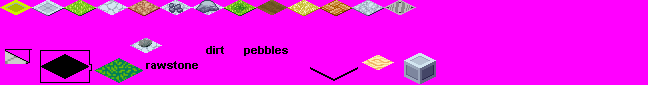
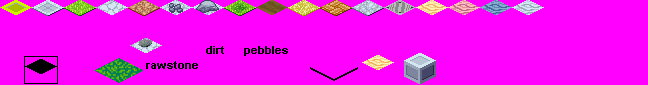
Added configurable wall and floor types, responding to their material index
git-svn-id: http://stonesense.googlecode.com/svn/trunk@82 4d48de78-bd66-11de-9616-7b1d4728551e

diff --git a/GroundMaterialConfiguration.cpp b/GroundMaterialConfiguration.cpp
@@ -1,0 +1,86 @@
+#include "common.h"
+#include "GroundMaterialConfiguration.h"
+
+#include "dfhack/library/tinyxml/tinyxml.h"
+
+bool GroundMaterialNamesTranslatedFromGame = false;
+
+vector<GroundMaterialConfiguration> groundTypes;
+vector<GroundMaterialConfiguration> xmlDefinedGroundTypes;
+
+GroundMaterialConfiguration::GroundMaterialConfiguration(char* gameIDstr, int wallSheetIndex,int floorSheetIndex)
+{
+  this->wallSheetIndex = wallSheetIndex;
+  this->floorSheetIndex = floorSheetIndex;
+
+  int len = (int) strlen(gameIDstr);
+  if(len > 100) len = 100;
+  memcpy(this->gameIDstr, gameIDstr, len);
+  this->gameIDstr[len] = 0;
+}
+
+void DumpGroundMaterialNamesToDisk(){
+  FILE* fp = fopen("dump.txt", "w");
+  if(!fp) return;
+  for(uint32_t j=0; j < v_stonetypes.size(); j++){
+    fprintf(fp, "%i:%s\n",j, v_stonetypes[j].id);
+  }
+  fclose(fp);
+}
+
+
+void TranslateGroundMaterialNames(){
+  //create and entry for every known ground material type
+  uint32_t num = (uint32_t) v_stonetypes.size();
+  uint32_t index = 0;
+  while( index < num ){
+    GroundMaterialConfiguration newConfig( v_stonetypes[index].id, INVALID_INDEX, INVALID_INDEX );
+    //add a copy to groundTypes
+    groundTypes.push_back( newConfig );
+    index++;
+  }
+  
+  //now translate configuration data loaded from the XML files
+  uint32_t numConfs = (uint32_t) xmlDefinedGroundTypes.size();
+  index = 0;
+  while( index < numConfs ){
+    char* str = xmlDefinedGroundTypes[index].gameIDstr;
+    //find this string id in the material list, and update the entry
+    for(uint32_t i=0; i<num; i++){
+      if( strcmp( str, groundTypes[i].gameIDstr) != 0) continue;
+      groundTypes[i].floorSheetIndex = xmlDefinedGroundTypes[index].floorSheetIndex;
+      groundTypes[i].wallSheetIndex = xmlDefinedGroundTypes[index].wallSheetIndex;
+      
+    }
+    index++;
+  }
+  GroundMaterialNamesTranslatedFromGame = true;
+}
+
+void LoadGroundMaterialConfiguration(  ){
+
+  char* filename = "GroundMaterials.xml";
+  TiXmlDocument doc( filename );
+  bool loadOkay = doc.LoadFile();
+  TiXmlHandle hDoc(&doc);
+  TiXmlElement* elemMaterial;
+
+  xmlDefinedGroundTypes.clear();
+
+  elemMaterial = hDoc.FirstChildElement("Material").Element();
+  while( elemMaterial ){
+    const char* name = elemMaterial->Attribute("gameID");
+    const char* wallSheetIndexStr = elemMaterial->Attribute("wallSheetIndex");
+    const char* floorSheetIndexStr = elemMaterial->Attribute("floorSheetIndex");
+
+    GroundMaterialConfiguration mat( (char*)name, atoi(wallSheetIndexStr), atoi(floorSheetIndexStr) );
+    //add a copy to known materials list
+    xmlDefinedGroundTypes.push_back( mat );
+    
+    elemMaterial = elemMaterial->NextSiblingElement("Material");
+  }
+
+  GroundMaterialNamesTranslatedFromGame = false;
+  
+}
+

diff --git a/SpriteMaps.cpp b/SpriteMaps.cpp
@@ -1,10 +1,30 @@
 #include "common.h"
 #include "SpriteMaps.h"
+#include "GroundMaterialConfiguration.h"
 
 
 
-int GetWallSpriteMap(int in)
+
+int getFloorSpriteWithDefault( int defaultSprite, int materialIndex ){
+  //do a LOOKUP. not a search! 
+  uint32_t spriteIndex = groundTypes[materialIndex].floorSheetIndex;
+  if(spriteIndex != INVALID_INDEX) 
+    return spriteIndex;
+  return defaultSprite;
+}
+
+
+int getWallSpriteWithDefault( int defaultSprite, int materialIndex ){
+  //do a LOOKUP. not a search! 
+  uint32_t spriteIndex = groundTypes[materialIndex].wallSheetIndex;
+  if(spriteIndex != INVALID_INDEX) 
+    return spriteIndex;
+  return defaultSprite;
+}
+
+int GetWallSpriteMap(int in, int matIndex)
 {
+  int matIndexResult = -1;
     switch (in)
     {
         case 83: //frozen liquid pillar
@@ -60,11 +80,11 @@ int GetWallSpriteMap(int in)
           break;
 
         case 219: //stone wall (not worn)
-          return SPRITEOBJECT_WALL_STONE_ROUGH;
+          return getWallSpriteWithDefault( SPRITEOBJECT_WALL_STONE_ROUGH, matIndex );
           break;
 
         case 440: //minstone wall worn4
-          return SPRITEOBJECT_WALL_MINSTONE_ROUGH;
+          return getWallSpriteWithDefault( SPRITEOBJECT_WALL_MINSTONE_ROUGH, matIndex );
           break;
 
         case 331: //lavastone wall
@@ -156,7 +176,7 @@ int GetWallSpriteMap(int in)
 
 
         case 265: //soil wall
-          return SPRITEOBJECT_WALL_SOIL;
+          return getWallSpriteWithDefault( SPRITEOBJECT_WALL_SOIL, matIndex );
           break;
 
 
@@ -215,7 +235,7 @@ int GetWallSpriteMap(int in)
 
     return SPRITEOBJECT_WALL_NA;
 }
-int GetFloorSpriteMap(int in){
+int GetFloorSpriteMap(int in, int matIndex){
    switch (in)
     {
 			case 2:   //murky pool
@@ -345,7 +365,7 @@ int GetFloorSpriteMap(int in){
 			case 399: //grass floor2b
 			case 400: //grass floor3b
 			case 401: //grass floor4b
-				return SPRITEFLOOR_GRASS;
+				return SPRITEFLOOR_GRASS; 
 
 
 			case 336: //stone floor 1 (raw stone)
@@ -356,14 +376,14 @@ int GetFloorSpriteMap(int in){
 			case 442: //minstone floor 2 (cavern raw)
 			case 443: //minstone floor 3 (cavern raw)
 			case 444: //minstone floor 4 (cavern raw)
-				return SPRITEFLOOR_STONE;
+				return getFloorSpriteWithDefault( SPRITEFLOOR_STONE, matIndex );
 
 
 			case 352: //soil floor 1 (raw)
 			case 353: //soil floor 2 (raw)
 			case 354: //soil floor 3 (raw)
 			case 355: //soil floor 4 (raw)
-				return SPRITEFLOOR_DIRT;
+				return getFloorSpriteWithDefault( SPRITEFLOOR_DIRT, matIndex );
 
 
 			case 405: //stone pebbles 1

diff --git a/MapLoading.cpp b/MapLoading.cpp
@@ -6,6 +6,7 @@
 #include "Constructions.h"
 #include "GameBuildings.h"
 #include "Creatures.h"
+#include "GroundMaterialConfiguration.h"
 
 inline bool IDisWall(int in){
   switch( in ){
@@ -110,7 +111,7 @@ void ReadCellToSegment(DFHackAPI& DF, WorldSegment& segment, int CellX, int Cell
   //read local vein data
   vector <t_vein> veins;
   DF.ReadVeins(CellX,CellY,CellZ,veins);
-  uint32_t numVeins = veins.size();
+  uint32_t numVeins = (uint32_t)veins.size();
 	
 	//parse cell
 	for(uint32_t ly = BoundrySY; ly <= BoundryEY; ly++){
@@ -175,7 +176,7 @@ void ReadCellToSegment(DFHackAPI& DF, WorldSegment& segment, int CellX, int Cell
       //check veins
       for(uint32_t i=0; i<numVeins; i++){
         uint16_t row = veins[i].assignment[ly];
-        bool set = (row & (1 << lx));
+        bool set = (row & (1 << lx)) != 0;
         if(set)
           rockIndex = veins[i].type;
       }
@@ -221,6 +222,9 @@ WorldSegment* ReadMapSegment(int x, int y, int z, int sizex, int sizey, int size
   if(!DF.ReadStoneMatgloss(v_stonetypes)){
     return segment; 
   }
+  if(GroundMaterialNamesTranslatedFromGame == false)
+    TranslateGroundMaterialNames();
+
   //read layers
   vector< vector <uint16_t> > layers;
   if(!DF.ReadGeology( layers ))

diff --git a/main.cpp b/main.cpp
@@ -13,6 +13,7 @@ using namespace std;
 #include "MapLoading.h"
 #include "WorldSegment.h"
 #include "Creatures.h"
+#include "GroundMaterialConfiguration.h"
 
 uint32_t ClockedTime = 0;
 uint32_t ClockedTime2 = 0;
@@ -90,6 +91,7 @@ int main(void)
   //load building configuration information from xml files
   LoadBuildingConfiguration( &buildingTypes );
   LoadCreatureConfiguration( &creatureTypes );
+  LoadGroundMaterialConfiguration( );
 
 	set_color_depth(16);
   int gfxMode = config.Fullscreen ? GFX_AUTODETECT : GFX_AUTODETECT_WINDOWED;
@@ -143,6 +145,7 @@ int main(void)
   //sDisplayedSegmentX = 78; DisplayedSegmentY = 123;DisplayedSegmentZ = 15;
 
   DisplayedSegmentX = 172; DisplayedSegmentY = 325;DisplayedSegmentZ = 16;
+  DisplayedSegmentX = 282; DisplayedSegmentY = 363;DisplayedSegmentZ = 17;
 
   //DisplayedSegmentX = 242; DisplayedSegmentY = 345;DisplayedSegmentZ = 15;
   
@@ -155,7 +158,7 @@ int main(void)
 	reloadDisplayedSegment();
 	if(!viewedSegment) return 1;
 
-  benchmark();
+//  benchmark();
 
 	paintboard();
 	while(!key[KEY_ESC]){

diff --git a/SpriteMaps.h b/SpriteMaps.h
@@ -92,6 +92,10 @@ enum enumFloorSprites{
   SPRITEOBJECT_WALL_METAL = 207,
 	SPRITEOBJECT_WALL_WOOD = 208,
   SPRITEOBJECT_WALL_WOOD_FORTIFICATION = 209,
+  SPRITEOBJECT_WALL_SAND_YELLOW = 210,
+  SPRITEOBJECT_WALL_SAND_RED = 211,
+  SPRITEOBJECT_WALL_SAND_BLACK = 212,
+  SPRITEOBJECT_WALL_SAND_WHITE = 213,
 
 	SPRITEOBJECT_WALL_STONE_SMOOTH = 220,
   //SPRITEOBJECT_WALL_CONSTR_SMOOTH = 73,
@@ -174,8 +178,8 @@ enum BlockIDs{
 };
 
 
-int GetWallSpriteMap(int in);
-int GetFloorSpriteMap(int in);
+int GetWallSpriteMap(int in, int matIndex);
+int GetFloorSpriteMap(int in, int matIndex);
 int GetUpStairTypeMap(int in, bool mirrored);
 int GetDownStairTypeMap(int in);
 int GetRampMaterialTypeMap(int in);

diff --git a/Block.cpp b/Block.cpp
@@ -51,7 +51,7 @@ void Block::Draw(BITMAP* target){
 
 	//Draw Floor
 	if(floorType > 0){
-		sheetOffsetX = TILEWIDTH * GetFloorSpriteMap(floorType);
+    sheetOffsetX = TILEWIDTH * GetFloorSpriteMap(floorType, materialIndex);
 		masked_blit(IMGFloorSheet, target, sheetOffsetX,0, drawx,drawy, TILEWIDTH,TILEHEIGHT);
 
     //Northern frame
@@ -115,7 +115,7 @@ void Block::Draw(BITMAP* target){
   //Draw Walls
 	if(wallType > 0){
     //draw wall
-    int spriteNum =  GetWallSpriteMap(wallType);
+    int spriteNum =  GetWallSpriteMap(wallType, materialIndex);
     DrawSpriteFromSheet( spriteNum, target, IMGObjectSheet, drawx, drawy );
 
     drawy -= (WALLHEIGHT);

diff --git a/GroundMaterialConfiguration.h b/GroundMaterialConfiguration.h
@@ -1,0 +1,19 @@
+#pragma once
+
+class GroundMaterialConfiguration
+{
+public:
+  char gameIDstr[100];
+  int wallSheetIndex;
+  int floorSheetIndex;
+
+  GroundMaterialConfiguration(char* gameIDstr, int wallSheetIndex,int floorSheetIndex);
+  ~GroundMaterialConfiguration(){}
+};
+
+
+void LoadGroundMaterialConfiguration( );
+void TranslateGroundMaterialNames();
+
+extern bool GroundMaterialNamesTranslatedFromGame;
+extern vector<GroundMaterialConfiguration> groundTypes;

diff --git a/UserInput.cpp b/UserInput.cpp
@@ -1,6 +1,7 @@
 #include "common.h"
 #include "GUI.h"
 #include "BuildingConfiguration.h"
+#include "GroundMaterialConfiguration.h"
 #include "GameBuildings.h"
 #include "Creatures.h"
 
@@ -56,6 +57,7 @@ void doKeys(){
   if(key[KEY_G]){
     LoadCreatureConfiguration( &creatureTypes );
     LoadBuildingConfiguration( &buildingTypes );
+    LoadGroundMaterialConfiguration();
 		destroyGraphics();
     loadGraphicsFromDisk();
 

diff --git a/CreatureConfiguration.cpp b/CreatureConfiguration.cpp
@@ -24,7 +24,7 @@ void DumpCreatureNamesToDisk(){
   FILE* fp = fopen("dump.txt", "w");
   if(!fp) return;
   for(uint32_t j=0; j < v_creatureNames.size(); j++){
-    fprintf(fp, "%s\n", v_creatureNames[j].id);
+    fprintf(fp, "%i:%s\n",j, v_creatureNames[j].id);
   }
   fclose(fp);
 }
